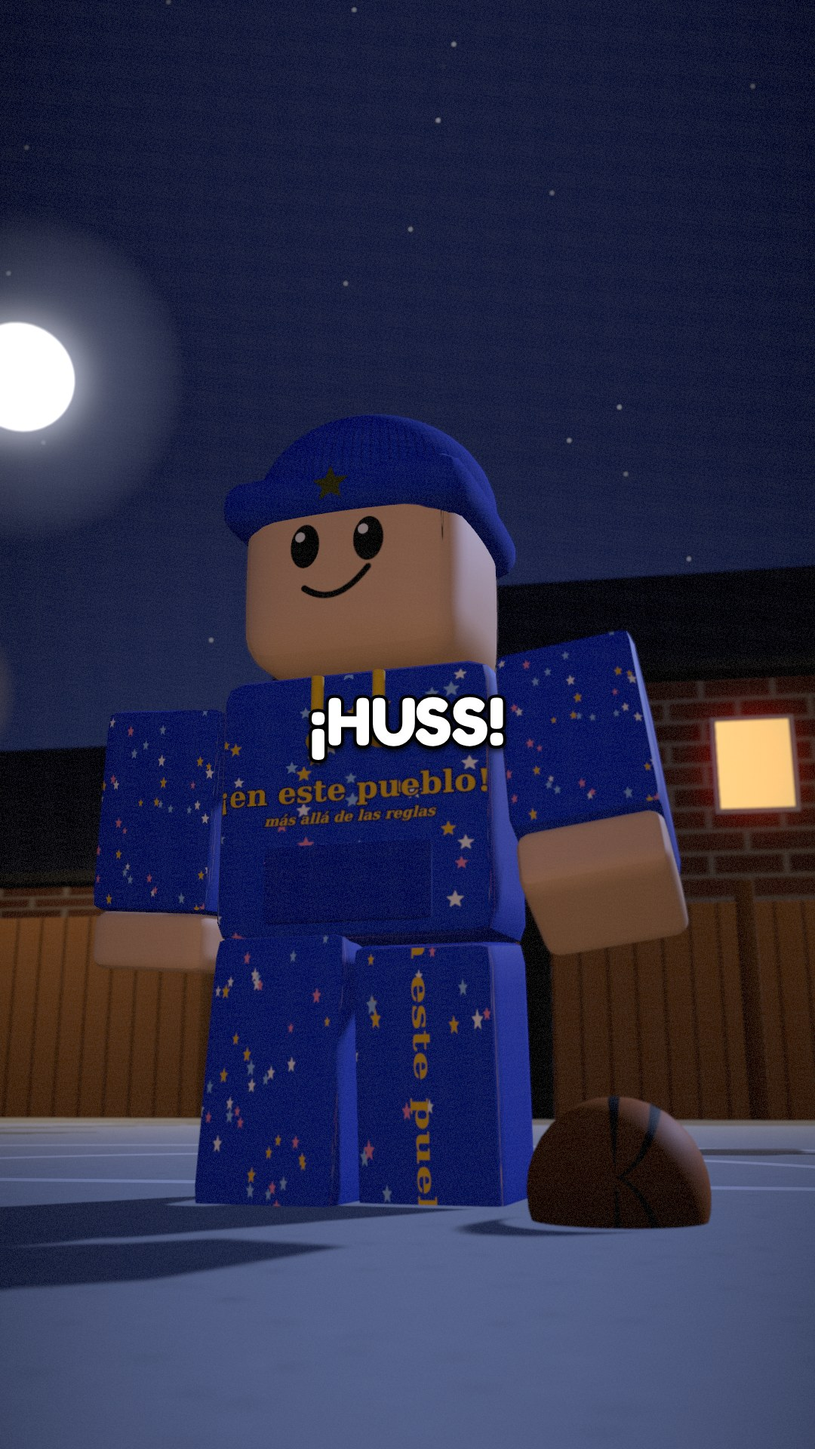
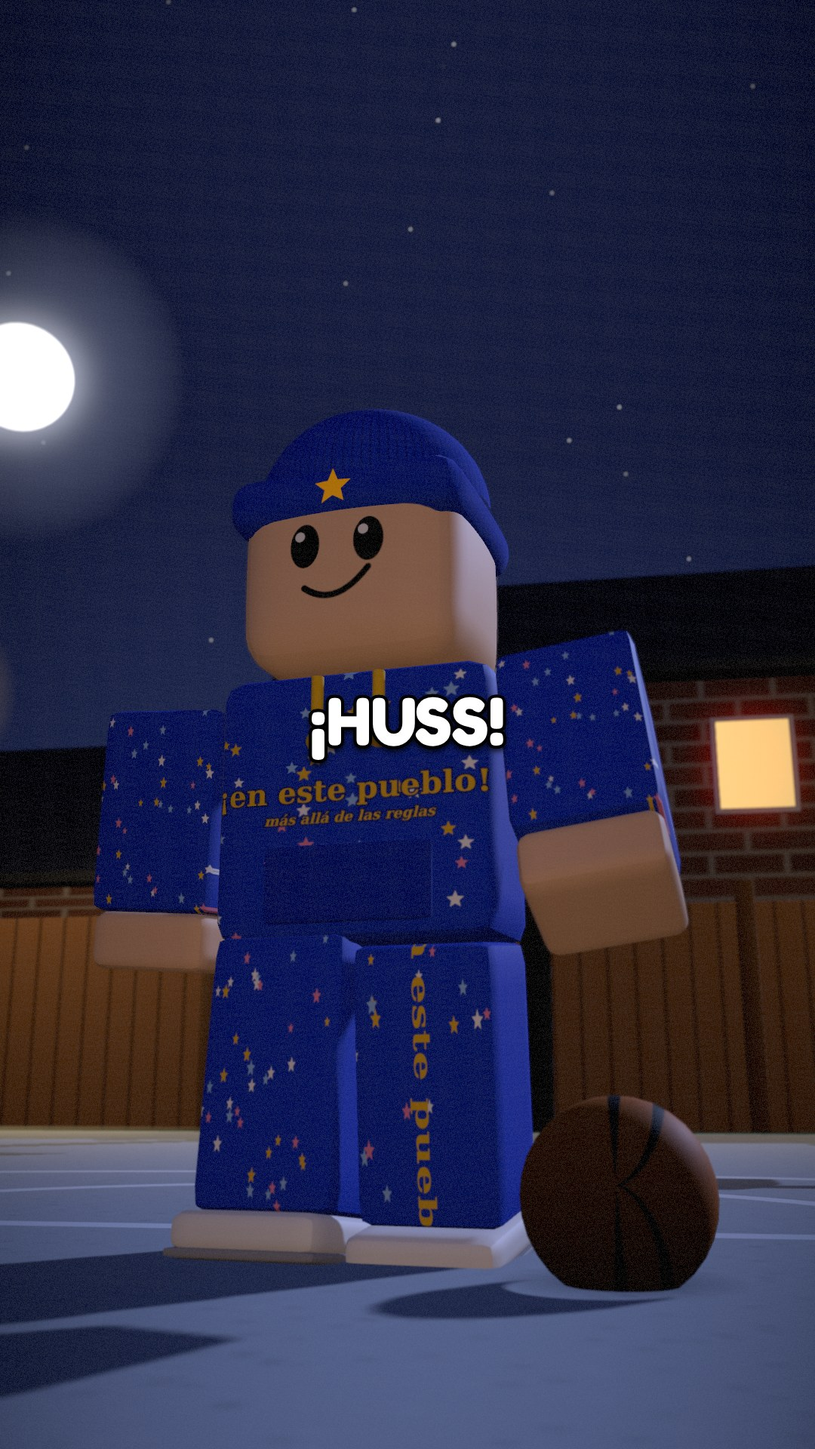
En este pueblo: pecera de vidrio real con agua, balón con rebote y sombra, gorro recto, marcador Bebas con brillo, pueblo detrás del partido, siluetas animadas, sin costuras en la cara
Claude-Session: https://claude.ai/code/session_01NcqyoPWYYrQVxTVUuo8w3d

diff --git a/videos/en-este-pueblo/assets/lib/escenarios.js b/videos/en-este-pueblo/assets/lib/escenarios.js
@@ -40,8 +40,8 @@
   function luna(dir, dist = 700, r = 26) { const g = G(); const d = new THREE.Vector3(...dir).normalize().multiplyScalar(dist); g.position.copy(d);
     const disco = new THREE.Mesh(new THREE.CircleGeometry(r, 48), new THREE.MeshBasicMaterial({ color: new THREE.Color(2.6, 2.6, 2.6), fog: false })); g.add(disco);
     const h = halo(r * 3.2, '#C9D6FF', .55); h.material.fog = false; g.add(h); g.lookAt(0, 0, 0); return g; }
-  function colinas(capas, z0 = -120, ancho = 520) { const g = G(); sembrar(5); capas.forEach((col, k) => { const m = mat(col, { roughness: 1 });
-      for (let i = 0; i < 9; i++) { const r = 60 + rnd() * 60; const o = new THREE.Mesh(new THREE.SphereGeometry(r, 18, 10), m); o.scale.set(1.5, .3 + k * .05 + rnd() * .12, 1); o.position.set(-ancho / 2 + i * ancho / 8 + rnd() * 30, -4, z0 - k * 90 - rnd() * 20); g.add(o); } }); return g; }
+  function colinas(capas, z0 = -120, ancho = 520, alto = 1) { const g = G(); sembrar(5); capas.forEach((col, k) => { const m = mat(col, { roughness: 1 });
+      for (let i = 0; i < 9; i++) { const r = 60 + rnd() * 60; const o = new THREE.Mesh(new THREE.SphereGeometry(r, 18, 10), m); o.scale.set(1.5, (.3 + k * .05 + rnd() * .12) * alto, 1); o.position.set(-ancho / 2 + i * ancho / 8 + rnd() * 30, -4, z0 - k * 90 - rnd() * 20); g.add(o); } }); return g; }
 
   // ---------- piezas del pueblo ----------
   const PAL = { techo: '#2A2D3A', techoRojo: '#B23A2E', ventana: '#FFD98A', marco: '#F4F2EE', farol: '#FFE3A8' };
@@ -65,7 +65,7 @@
     sembrar((o.semilla || 1) * 13);
     const nv = Math.max(2, Math.round(w / 2.6));
     for (let p = 0; p < (o.pisos || 1); p++) for (let i = 0; i < nv; i++) { const x = -w / 2 + (i + .5) * w / nv; if (p === 0 && i === Math.floor(nv / 2)) continue;
-      const conSil = o.silueta && rnd() < o.silueta; const v = ventana({ cruz: o.cruz && !conSil, persianas: o.persianas, apagada: !conSil && o.apagadas && rnd() < o.apagadas, silueta: conSil, tipoSil: TIPOS_SIL[(p * 3 + i + (o.semilla || 0)) % TIPOS_SIL.length], col: conSil ? '#FFF6E2' : null, silX: rnd() - .5, int: conSil ? 1.6 : 1.2 + rnd() * .6 }); v.position.set(x, .25 + p * ph + ph * .55, d / 2 + .02); g.add(v); }
+      const conSil = o.silueta && rnd() < o.silueta; const v = ventana({ cruz: o.cruz && !conSil, persianas: o.persianas, apagada: !conSil && o.apagadas && rnd() < o.apagadas, silueta: conSil, tipoSil: TIPOS_SIL[(p * 3 + i + (o.semilla || 0)) % TIPOS_SIL.length] + ':' + ((p + i * 2 + (o.semilla || 0)) % 3), col: conSil ? '#FFF6E2' : null, silX: rnd() - .5, int: conSil ? 1.6 : 1.2 + rnd() * .6 }); v.position.set(x, .25 + p * ph + ph * .55, d / 2 + .02); g.add(v); }
     // puerta, porche, escalones y caminito
     const xd = -w / 2 + (Math.floor(nv / 2) + .5) * w / nv;
     g.add(caja(1.05, 2.15, .14, mat(o.puerta || '#5A3A28', { roughness: .6 }), xd, 1.33, d / 2 + .04, .03)); g.add(caja(.08, .08, .1, luz('#FFE3A8', 2), xd + .35, 1.3, d / 2 + .13, .02));
@@ -141,12 +141,12 @@
   ];
   function casaEstilo(i, extra = {}) { const e = ESTILOS[i % ESTILOS.length]; return casa(Object.assign({ col: e.col, map: e.mapa ? TEX[e.mapa] : null, pisos: e.pisos, w: e.w, d: 6.5, techoCol: e.techoCol, columnas: e.columnas, persianas: e.persianas, cruz: e.cruz, semilla: i + 1, apagadas: .25 }, extra)); }
   function pueblo(o = {}) { const g = G(); const z0 = o.z0 != null ? o.z0 : 30, z1 = o.z1 != null ? o.z1 : -150, L = z0 - z1, zc = (z0 + z1) / 2;
-    g.add(plano(400, 400, mat('#FFFFFF', { color: o.pasto || '#3E6E34', map: rep(TEX.pasto.clone(), 60, 60), roughness: 1 }), 0, -.01, -100)); g.children[0].material.map.needsUpdate = true;
-    g.add(plano(7, L, mat('#FFFFFF', { map: rep(TEX.asfalto.clone(), 2, L / 4), roughness: .9 }), 0, 0, zc)); g.children[1].material.map.needsUpdate = true;
+    if (!o.sinPasto) { g.add(plano(400, 400, mat('#FFFFFF', { color: o.pasto || '#3E6E34', map: rep(TEX.pasto.clone(), 60, 60), roughness: 1 }), 0, -.01, -100)); g.children[0].material.map.needsUpdate = true; }
+    g.add(plano(7, L, mat('#FFFFFF', { map: rep(TEX.asfalto.clone(), 2, L / 4), roughness: .9 }), 0, 0, zc)); g.children[g.children.length - 1].material.map.needsUpdate = true;
     for (let z = z0 - 2; z > z1; z -= 6) g.add(caja(.16, .02, 3.0, mat('#E3B53A', { roughness: .6 }), 0, .015, z - 1.5, .005));
     for (const s of [-1, 1]) { g.add(caja(2.4, .18, L, mat('#FFFFFF', { map: rep(TEX.banqueta.clone(), 1, L / 3), roughness: .9 }), s * 4.7, .09, zc, .03)); g.add(caja(.2, .22, L, mat('#B8BBC0'), s * 3.55, .11, zc, .03)); }
     let k = o.semilla || 0; const sep = 9.2;
-    for (const s of [-1, 1]) for (let z = z0 - 6, i = 0; z > z1 + 5; z -= sep, i++) { if (o.hueco && o.hueco(s, z)) continue; const c = casaEstilo(k++ * 3 + (s > 0 ? 1 : 0) + i, { silueta: o.siluetas || 0 }); c.position.set(s * 13.5, 0, z); c.rotation.y = s > 0 ? -Math.PI / 2 : Math.PI / 2; g.add(c);
+    for (const s of [-1, 1]) for (let z = z0 - 6, i = 0; z > z1 + 5; z -= sep, i++) { if (o.hueco && o.hueco(s, z)) continue; const c = casaEstilo(k++ * 3 + (s > 0 ? 1 : 0) + i, { silueta: o.siluetas || 0, apagadas: o.apagadas != null ? o.apagadas : .25 }); c.position.set(s * 13.5, 0, z); c.rotation.y = s > 0 ? -Math.PI / 2 : Math.PI / 2; g.add(c);
       if (i % 2 === 0) { const a = arbol(.9 + (i % 3) * .1, i % 2 ? '#4C8A3C' : '#3F7E36'); a.position.set(s * 8.2, 0, z - 5); g.add(a); } else { const b = arbusto(1); b.position.set(s * 8.4, 0, z - 4.5); g.add(b); }
       if (i % 3 === 1) { const b = buzon(); b.position.set(s * 6.3, 0, z + 2.2); g.add(b); }
       const bd = barda(6, 1.6, '#8A5A36'); bd.position.set(s * 13.5, 0, z - 5.1); bd.rotation.y = Math.PI / 2; g.add(bd); }
@@ -162,7 +162,7 @@
       const cx = w / 2, by = 1.2 * sy; c.strokeRect(cx - 2.45 * sx, 6, 4.9 * sx, 5.8 * sy); c.beginPath(); c.arc(cx, 5.8 * sy, 1.8 * sx, 0, Math.PI); c.stroke();
       c.beginPath(); c.moveTo(cx - 6.6 * sx, 6); c.lineTo(cx - 6.6 * sx, by + .2 * sy); c.arc(cx, by + .38 * sy, 6.75 * sx, Math.PI - .02, .02, true); c.lineTo(cx + 6.6 * sx, 6); c.stroke();
       for (const s of [-1, 1]) for (const yy of [1.9, 2.8, 3.7, 4.6]) { c.fillStyle = '#FFFFFF'; c.fillRect(cx + s * 2.45 * sx + (s < 0 ? -.5 * sx : 0), yy * sy, .5 * sx, 9); c.fillRect(cx + s * 2.45 * sx + (s < 0 ? -.5 * sx : 0), yy * sy + .3 * sy, .5 * sx, 9); } });
-    const piso = caja(W, .12, D, mat('#FFFFFF', { map: t, roughness: .85 }), 0, .06, 0, .02); piso.geometry = piso.geometry.clone(); // UV superior
+    const piso = caja(W, .12, D, mat('#FFFFFF', { map: t, roughness: .85 }), 0, -.05, 0, .02); piso.geometry = piso.geometry.clone(); // UV superior
     { const p = piso.geometry.attributes.position, uv = piso.geometry.attributes.uv; for (let i = 0; i < p.count; i++) uv.setXY(i, (p.getX(i) + W / 2) / W, (p.getZ(i) + D / 2) / D); uv.needsUpdate = true; } g.add(piso);
     const aro = canasta('#15161A'); aro.position.set(0, 0, -D / 2 + .4); g.add(aro); g.userData.aro = aro;
     for (const [x, z, r, L] of [[-W / 2 - .6, 0, Math.PI / 2, D + 1.2], [W / 2 + .6, 0, Math.PI / 2, D + 1.2], [0, -D / 2 - .6, 0, W + 1.2], [-4.6, D / 2 + .6, 0, 6], [4.6, D / 2 + .6, 0, 6]]) { const b = barda(L, 2.0); b.position.set(x, 0, z); b.rotation.y = r; g.add(b); }
@@ -188,16 +188,30 @@
   function personaje(k, x, z, ry = 0, expr, pose, t = .3, opc) { const a = P.crear(k, opc); a.position.set(x, 0, z); a.rotation.y = ry; if (expr && a.cara) a.cara(expr); if (pose && a.pose) a.pose(t, pose); return prepara(a); }
   // balón en la mano derecha del protagonista (pose 'botar'): sube y baja al ritmo del brazo
   const _v = new THREE.Vector3();
-  function botaBalon(a, b, t) { a.updateMatrixWorld(true); const br = a.userData.brazos[1]; br.localToWorld(_v.set(0, -1.62, .1)); const f = (t * 2.2) % 1, e = Math.pow(2 * f - 1, 2); b.position.set(_v.x, .17 + Math.max(0, _v.y - .17 - .17) * e, _v.z); b.rotation.x = t * 6; }
-  const SIL = {}; // siluetas negras practicando algo (para ventanas)
-  function silueta(tipo) { if (SIL[tipo]) return SIL[tipo]; SIL[tipo] = tex(128, 160, (x, w, h) => { x.fillStyle = '#08080C'; const R = (a, b, c, d, r = 0) => { x.save(); x.translate(a, b); x.rotate(r); x.fillRect(-c / 2, 0, c, d); x.restore(); };
+  const TSOM = tex(64, 64, (x) => { const g = x.createRadialGradient(32, 32, 0, 32, 32, 32); g.addColorStop(0, 'rgba(0,0,0,.75)'); g.addColorStop(1, 'rgba(0,0,0,0)'); x.fillStyle = g; x.fillRect(0, 0, 64, 64); });
+  function botaBalon(a, b, t, piso = .01) { a.updateMatrixWorld(true); const br = a.userData.brazos[1]; br.localToWorld(_v.set(0, -1.62, .1)); const r = .17, f = (t * 2.2) % 1, e = Math.pow(2 * f - 1, 2), alto = Math.max(0, _v.y - r - r - piso);
+    const y = piso + r + alto * e; b.position.set(_v.x, y, _v.z); b.rotation.x = t * 6; const ap = Math.max(0, 1 - (y - piso - r) / .12); b.scale.set(1 + .08 * ap, 1 - .12 * ap, 1 + .08 * ap); b.position.y -= r * .12 * ap;
+    if (!b.userData.sombra) { const m = new THREE.Mesh(new THREE.PlaneGeometry(1, 1), new THREE.MeshBasicMaterial({ map: TSOM, transparent: true, depthWrite: false })); m.rotation.x = -Math.PI / 2; b.userData.sombra = m; b.parent.add(m); }
+    const k = 1 - Math.min(1, (y - piso - r) / Math.max(.2, alto)), so = b.userData.sombra; so.position.set(_v.x, piso + .004, _v.z); so.scale.setScalar(.22 + .26 * k); so.material.opacity = .25 + .6 * k; }
+  const SIL = {}; // siluetas negras practicando algo, animadas en bucle (para ventanas)
+  function silueta(clave) { if (SIL[clave]) return SIL[clave].t; const [tipo, fase] = clave.split(':'); const c = document.createElement('canvas'); c.width = 128; c.height = 160; const x = c.getContext('2d'); const t = new THREE.CanvasTexture(c); t.encoding = THREE.sRGBEncoding;
+    const R = (a, b, w, d, r = 0) => { x.save(); x.translate(a, b); x.rotate(r); x.fillRect(-w / 2, 0, w, d); x.restore(); };
+    const dibuja = (tt) => { tt += (+fase || 0) * .37; x.clearRect(0, 0, 128, 160); x.fillStyle = '#08080C'; const s1 = Math.sin(tt * 7);
+      if (tipo === 'sentadillas') { const b = (s1 * .5 + .5) * 26; x.fillRect(46, 20 + b, 36, 34); x.fillRect(40, 56 + b, 48, 46 - b * .3); R(51, 100 + b * .7, 18, 60 - b * .7, b * .02); R(77, 100 + b * .7, 18, 60 - b * .7, -b * .02); R(40, 60 + b, 12, 40, -1.4); R(88, 60 + b, 12, 40, 1.4); }
+      else { x.fillRect(46, 20, 36, 34); x.fillRect(40, 56, 48, 52); x.fillRect(42, 108, 18, 52); x.fillRect(68, 108, 18, 52);
+        if (tipo === 'botar') { const u = Math.abs(Math.sin(tt * 4.4)); R(40, 60, 12, 44, .15); R(88, 60, 12, 40, -.35 - .2 * u); x.beginPath(); x.arc(104, 108 + 44 * (1 - u), 9, 0, 7); x.fill(); }
+        else if (tipo === 'guitarra') { R(40, 60, 12, 40, .9 + .25 * Math.sin(tt * 14)); R(88, 60, 12, 40, -1.2); x.beginPath(); x.ellipse(58, 92, 20, 14, -.5, 0, 7); x.fill(); R(70, 80, 6, 50, -1.0); }
+        else { const a = s1 > 0; R(88, 62, 12, a ? 46 : 26, a ? -1.57 : -2.4); R(40, 62, 12, a ? 26 : 46, a ? 2.4 : 1.57); } } t.needsUpdate = true; };
+    dibuja(0); SIL[clave] = { t, dibuja }; return t; }
+  function animaSiluetas(tt) { for (const k in SIL) SIL[k].dibuja(tt); }
+  function siluetaVieja(tipo) { if (SIL[tipo]) return SIL[tipo]; SIL[tipo] = tex(128, 160, (x, w, h) => { x.fillStyle = '#08080C'; const R = (a, b, c, d, r = 0) => { x.save(); x.translate(a, b); x.rotate(r); x.fillRect(-c / 2, 0, c, d); x.restore(); };
       if (tipo === 'lagartija') { x.fillRect(18, 108, 92, 18); x.fillRect(96, 94, 22, 22); R(98, 120, 9, 30, 0); R(30, 120, 9, 30, 0); return; }
       x.fillRect(46, 20, 36, 34); x.fillRect(40, 56, 48, 52); x.fillRect(42, 108, 18, 52); x.fillRect(68, 108, 18, 52);
       if (tipo === 'guitarra') { R(40, 60, 12, 40, .9); R(88, 60, 12, 40, -1.2); x.beginPath(); x.ellipse(58, 92, 20, 14, -.5, 0, 7); x.fill(); R(70, 80, 6, 50, -1.0); }
       else if (tipo === 'karate') { R(88, 60, 12, 46, -1.57); R(40, 60, 12, 40, .4); }
       else if (tipo === 'pesas') { R(40, 58, 12, 46, Math.PI - .3); R(88, 58, 12, 46, Math.PI + .3); x.fillRect(10, 4, 108, 8); x.fillRect(6, 0, 10, 16); x.fillRect(112, 0, 10, 16); }
       else { R(40, 60, 12, 44, .3); R(88, 60, 12, 44, -.3); } }); return SIL[tipo]; }
-  const TIPOS_SIL = ['guitarra', 'karate', 'pesas', 'lagartija', 'guitarra', 'pesas'];
+  const TIPOS_SIL = ['botar', 'guitarra', 'golpes', 'sentadillas'];
   const camara = (pos, mira, fov = 50) => { const c = new THREE.PerspectiveCamera(fov, 1080 / 1920, .05, 1500); c.position.set(...pos); c.lookAt(...mira); return c; };
   function banca() { const g = G(), m = mat('#FFFFFF', { map: TEX.madera, roughness: .7 }), n = mat('#1A1A1E', { roughness: .4 }); for (let i = 0; i < 3; i++) g.add(caja(1.9, .06, .14, m, 0, .46, -.17 + i * .17, .02)); for (let i = 0; i < 2; i++) g.add(caja(1.9, .12, .05, m, 0, .66 + i * .18, -.3, .02));
     for (const sx of [-1, 1]) { g.add(caja(.07, .46, .45, n, sx * .8, .23, 0, .02)); g.add(caja(.07, .55, .07, n, sx * .8, .7, -.32, .02)); } return g; }
@@ -289,24 +303,24 @@
       s.add(new THREE.HemisphereLight('#C8C8F0', '#8A6A50', .75)); const sol = new THREE.DirectionalLight('#FFD8B0', 3.0); sol.position.set(44, 10, 4); sol.castShadow = true; sol.shadow.mapSize.set(4096, 4096); sol.shadow.bias = -.0004; sol.shadow.normalBias = .03; sol.shadow.radius = 5; { const c = sol.shadow.camera; c.left = c.bottom = -26; c.right = c.top = 26; c.far = 160; } s.add(sol);
       const rel = new THREE.DirectionalLight('#B8BDEB', .5); rel.position.set(-20, 10, -10); s.add(rel);
       s.add(plano(500, 500, mat('#6FA24E', { map: rep(TEX.pasto.clone(), 70, 70), roughness: 1 }), 0, -.01, -60));
-      const W = 15, D = 28; const t = tex(512, 960, (c, w, h) => { c.fillStyle = '#4F7FE0'; c.fillRect(0, 0, w, h); const sx = w / W, sy = h / D; c.fillStyle = '#F08A3C'; c.fillRect(w / 2 - 2.45 * sx, 0, 4.9 * sx, 5.8 * sy); c.fillRect(w / 2 - 2.45 * sx, h - 5.8 * sy, 4.9 * sx, 5.8 * sy);
+      const W = 15, D = 28; const t = tex(512, 960, (c, w, h) => { c.fillStyle = '#4F7FE0'; c.fillRect(0, 0, w, h); const sx = w / W, sy = h / D; c.fillStyle = '#EE7420'; c.fillRect(w / 2 - 2.45 * sx, 0, 4.9 * sx, 5.8 * sy); c.fillRect(w / 2 - 2.45 * sx, h - 5.8 * sy, 4.9 * sx, 5.8 * sy);
         c.fillStyle = '#F6D44A'; c.beginPath(); c.arc(w / 2, h / 2, 1.8 * sx, 0, 7); c.fill(); c.strokeStyle = '#FFFFFF'; c.lineWidth = 6; c.strokeRect(4, 4, w - 8, h - 8); c.beginPath(); c.moveTo(0, h / 2); c.lineTo(w, h / 2); c.stroke(); c.beginPath(); c.arc(w / 2, h / 2, 1.8 * sx, 0, 7); c.stroke();
         for (const e of [0, 1]) { const y0 = e ? h : 0, sg = e ? -1 : 1; c.strokeRect(w / 2 - 2.45 * sx, e ? h - 5.8 * sy : 0, 4.9 * sx, 5.8 * sy); c.beginPath(); c.arc(w / 2, y0 + sg * 5.8 * sy, 1.8 * sx, 0, 7); c.stroke(); c.beginPath(); c.arc(w / 2, y0 + sg * 1.6 * sy, 6.75 * sx, e ? Math.PI + .2 : .2, e ? -.2 : Math.PI - .2, false); c.stroke(); } });
-      const piso = caja(W, .12, D, mat('#FFFFFF', { map: t, roughness: .55 }), 0, .06, 0, .02); piso.geometry = piso.geometry.clone(); { const p = piso.geometry.attributes.position, uv = piso.geometry.attributes.uv; for (let i = 0; i < p.count; i++) uv.setXY(i, (p.getX(i) + W / 2) / W, (p.getZ(i) + D / 2) / D); } s.add(piso);
+      const piso = caja(W, .12, D, mat('#FFFFFF', { map: t, roughness: .9 }), 0, -.05, 0, .02); piso.geometry = piso.geometry.clone(); { const p = piso.geometry.attributes.position, uv = piso.geometry.attributes.uv; for (let i = 0; i < p.count; i++) uv.setXY(i, (p.getX(i) + W / 2) / W, (p.getZ(i) + D / 2) / D); } s.add(piso);
       for (const z of [-D / 2 + .3, D / 2 - .3]) { const a = canasta('#D9312B'); a.position.set(0, 0, z); if (z > 0) a.rotation.y = Math.PI; s.add(a); }
       // gradas de 6 escalones llenas de invitados con gorritos
       for (let i = 0; i < 6; i++) s.add(caja(.75, (i + 1) * .45, 22, mat(i % 2 ? '#6E6965' : '#8F8A86', { roughness: .95 }), -W / 2 - 1.6 - i * .75, (i + 1) * .225, 0, .02));
       const gradas = []; const KS = ['invitado_verde', 'invitado_blanco', 'invitada_amarilla', 'nino_gorro', 'rubio', 'linda', 'abuela'];
-      for (let fila = 0; fila < 6; fila++) for (let j = 0; j < 9; j++) { const k = KS[(fila * 4 + j * 3) % KS.length]; const pose = (fila + j) % 3 === 0 ? 'quieto' : 'bailar';
-        const a = personaje(k, -W / 2 - 1.6 - fila * .75, -9.6 + j * 2.4 + (fila % 2) * 1.2, Math.PI / 2, 'feliz', pose, fila * .4 + j * .7); a.position.y = .45 * (fila + 1); s.add(a); gradas.push(a); }
+      for (let fila = 0; fila < 6; fila++) for (let j = 0; j < 10; j++) { const k = KS[(fila * 4 + j * 3) % KS.length]; const pie = (fila * 3 + j * 7) % 5 === 0; const pose = pie ? 'bailar' : 'sentado';
+        const a = personaje(k, -W / 2 - 1.6 - fila * .75 - (pie ? 0 : .12), -9.9 + j * 2.2, Math.PI / 2, 'feliz', pose, fila * .4 + j * .7); a.position.y = .45 * (fila + 1) + (pie ? 0 : .08); a.userData.pie = pie; s.add(a); gradas.push(a); }
       // letrero
       const lt = tex(1600, 260, (c, w, h) => { c.fillStyle = '#E7B53C'; c.fillRect(0, 0, w, h); c.fillStyle = '#5B4A9E'; c.font = 'bold 118px "DejaVu Sans", sans-serif'; c.textAlign = 'center'; c.textBaseline = 'middle'; const tw = c.measureText('PARTIDO DE FIESTA DE VERANO').width; c.save(); c.translate(w / 2, h * .42); c.scale(Math.min(1, (w - 80) / tw), 1); c.fillText('PARTIDO DE FIESTA DE VERANO', 0, 0); c.restore(); for (let i = 0; i < 26; i++) { c.fillStyle = COLB[i % 6]; c.fillRect(40 + i * 60, h - 52, 40, 30); } });
       const letrero = G(); letrero.add(caja(14, 2.3, .2, mat('#FFFFFF', { map: lt, roughness: .6 }), 0, 6.4, 0, .05)); for (const x of [-6, 6]) letrero.add(caja(.3, 6.4, .3, mat('#15161A'), x, 3.2, -.2, .04)); letrero.position.set(-2.5, 0, -D / 2 - 4); s.add(letrero);
       // marcador negro sobre dos postes
-      const mt = tex(800, 420, (c, w, h) => { c.fillStyle = '#121214'; c.fillRect(0, 0, w, h); c.textAlign = 'center'; c.fillStyle = '#F0A040'; c.font = 'bold 70px "DejaVu Sans", sans-serif'; c.fillText('VISITA', w * .27, 100); c.fillText('LOCAL', w * .73, 100); c.fillStyle = '#F6E06A'; c.font = 'bold 230px "DejaVu Sans Mono", monospace'; c.fillText(String(MK[0]), w * .27, 350); c.fillText(String(MK[1]), w * .73, 350); });
-      const marc = G(); marc.add(caja(4.4, 2.3, .3, mat('#FFFFFF', { map: mt, roughness: .5, emissive: '#FFFFFF', emissiveMap: mt, emissiveIntensity: .3 }), 0, 4.3, 0, .05)); for (const x of [-1.5, 1.5]) marc.add(caja(.22, 3.4, .22, mat('#15161A'), x, 1.7, -.2, .03)); marc.position.set(7.2, 0, -D / 2 - 3); marc.rotation.y = -.2; s.add(marc);
+      const mt = tex(800, 420, (c, w, h) => { c.fillStyle = '#0E0E10'; c.fillRect(0, 0, w, h); c.textAlign = 'center'; c.fillStyle = '#F0A040'; c.font = '92px "Bebas Neue", sans-serif'; c.fillText('VISITA', w * .27, 110); c.fillText('LOCAL', w * .73, 110); c.fillStyle = '#F6E06A'; c.font = '300px "Bebas Neue", sans-serif'; c.shadowColor = 'rgba(246,224,106,.85)'; c.shadowBlur = 26; for (let k = 0; k < 2; k++) { c.fillText(String(MK[0]), w * .27, 380); c.fillText(String(MK[1]), w * .73, 380); } });
+      const marc = G(); marc.add(caja(4.4, 2.3, .3, mat('#FFFFFF', { map: mt, roughness: .5, emissive: '#FFFFFF', emissiveMap: mt, emissiveIntensity: 1.15 }), 0, 4.3, 0, .05)); for (const x of [-1.5, 1.5]) marc.add(caja(.22, 3.4, .22, mat('#15161A'), x, 1.7, -.2, .03)); marc.position.set(7.2, 0, -D / 2 - 3); marc.rotation.y = -.2; s.add(marc);
       // solo 2 tiras de banderines, altas
-      for (const z of [2, 11]) { s.add(banderines([-W / 2 - 1.5, 8.4, z], [W / 2 + 1.5, 8.4, z - .5], .7, 26, false, 1.1)); for (const x of [-W / 2 - 1.5, W / 2 + 1.5]) s.add(caja(.14, 8.5, .14, mat('#9EA2AA'), x, 4.25, z - (x > 0 ? .5 : 0), .02)); }
+      for (const z of [-3, -10]) { s.add(banderines([-W / 2 - 1.5, 8.4, z], [W / 2 + 1.5, 8.4, z - .5], .7, 26, false, 1.1)); for (const x of [-W / 2 - 1.5, W / 2 + 1.5]) s.add(caja(.14, 8.5, .14, mat('#9EA2AA'), x, 4.25, z - (x > 0 ? .5 : 0), .02)); }
       // barda blanca, casetita de madera con techo rojo y mesa de botanas roja
       for (const [x, z, r, L] of [[W / 2 + 7, 0, Math.PI / 2, 40], [0, -D / 2 - 8, 0, 34]]) { const b = barda(L, 1.4, '#FFFFFF', true); b.position.set(x, 0, z); b.rotation.y = r; s.add(b); }
       const cas = G(); cas.add(caja(3, 2.6, 3, mat('#FFFFFF', { map: TEX.tablonCafe, roughness: .8 }), 0, 1.3, 0, .05)); const tc = techo(3.6, 3.8, 1.3, '#C8352B'); tc.position.y = 2.6; cas.add(tc); cas.add(caja(1.6, .9, .1, mat('#2A1A10'), 0, 1.6, 1.52, .02)); cas.add(caja(1.8, .1, .5, mat('#FFFFFF', { map: TEX.madera }), 0, 1.12, 1.7, .02)); cas.position.set(W / 2 + 2.6, 0, -6); cas.rotation.y = -Math.PI / 2 + .3; s.add(cas);
@@ -315,11 +329,12 @@
       const prota = personaje('prota', 1.2, 4, Math.PI * .85, 'feliz', 'botar', .2); s.add(prota); const bal = P.balon(.17); s.add(bal); botaBalon(prota, bal, .2);
       const kevin = personaje('kevin', -1.6, 1.0, .3, 'seria', 'quieto'); s.add(kevin); const rub = personaje('rubio', 3.4, -1.6, -.3, 'sorpresa', 'quieto'); s.add(rub);
       // pueblo y colinas al fondo (3 capas, más claras mientras más lejos)
-      [[-24, -34, 1], [-12, -40, 4], [2, -44, 6], [16, -40, 9], [28, -34, 2], [-34, -24, 7], [36, -22, 3]].forEach(([x, z, i]) => { const h = casaEstilo(i, { apagadas: 1 }); h.position.set(x, 0, z); h.rotation.y = Math.atan2(-x, -z) + Math.PI; s.add(h); });
-      for (const [x, z] of [[-18, -30], [8, -34], [22, -28], [-30, -12]]) { const a = arbol(1.1, '#5E9A3E'); a.position.set(x, 0, z); s.add(a); }
-      s.add(colinas(['#78A456', '#9DB487', '#C6C3B4'], -110));
+      for (const [zz, sem] of [[-40, 3], [-74, 9]]) { const pb = pueblo({ z0: 75, z1: -75, sinPasto: true, hidrante: false, semilla: sem, apagadas: .85, zBandera: 20 }); pb.rotation.y = Math.PI / 2; pb.position.z = zz; s.add(pb); }
+      for (const [col, tipo, x, z, ry] of [['#3F9A4E', 'camioneta', -10, -42.2, Math.PI / 2], ['#D9423A', 'coche', 6, -37.8, -Math.PI / 2], ['#E8E8EA', 'camioneta', 22, -42.2, Math.PI / 2], ['#D9423A', 'coche', -26, -71.8, -Math.PI / 2]]) { const c = coche(col, tipo, false); c.position.set(x, 0, z); c.rotation.y = ry; s.add(c); }
+      for (const [x, z] of [[-30, -12], [24, -14]]) { const a = arbol(1.1, '#5E9A3E'); a.position.set(x, 0, z); s.add(a); }
+      s.add(colinas(['#78A456', '#9DB487', '#C6C3B4'], -120, 620, .45));
       const cam = camara([3, 10.5, 28], [0, 2.2, -8], 60);
-      return { scene: s, cam, post: { focus: 22, ap: .04, bloom: .45, umbral: 1.5 }, actores: { prota, kevin, rubio: rub, balon: bal, marcador: marc, gradas }, anima: (tt) => { relleno(.07); gradas.forEach((a, i) => a.pose(tt + i * .21, (i % 3) ? 'bailar' : 'quieto')); prota.pose(tt, 'botar'); botaBalon(prota, bal, tt); } }; },
+      return { scene: s, cam, post: { focus: 22, ap: .04, bloom: .45, umbral: 1.5 }, actores: { prota, kevin, rubio: rub, balon: bal, marcador: marc, gradas }, anima: (tt) => { relleno(.07); gradas.forEach((a, i) => a.pose(tt + i * .21, a.userData.pie ? 'bailar' : 'sentado')); prota.pose(tt, 'botar'); botaBalon(prota, bal, tt); } }; },
 
     // F · Interiores de noche
     cuarto_kevin() { return interior({ pared: '#1F2C66', piso: mat('#FFFFFF', { map: TEX.pisoMadera, roughness: .7 }), tapete: '#D6A72E', poster: true,
@@ -339,7 +354,7 @@
       s.add(foquitos([-7.6, 3.6, -6.8], [7.6, 3.6, 2], 1.1, 24)); s.add(foquitos([-7.6, 3.4, 3], [7.6, 3.6, -6.5], 1.0, 24)); for (const [x, z] of [[-7.6, -6.8], [7.6, 2], [-7.6, 3], [7.6, -6.5]]) s.add(caja(.12, 3.7, .12, mat('#2A2A2A'), x, 1.85, z, .02));
       const warm = new THREE.PointLight('#FFF0D0', 1.1, 18, 1.5); warm.position.set(0, 3.3, -1); s.add(warm);
       const pc = P.pecera(); pc.position.set(.55, 0, -1.4); s.add(pc); pc.userData.pez.traverse(q => { if (q.isMesh && q.material.emissive && q.material.color.getHex() !== 0x101010) q.material.emissiveIntensity = .45; });
-      const col = new THREE.SpotLight('#FF8FD0', 3.0, 7, .42, .7, 1.2); col.position.set(.55, 3.2, -.2); col.target.position.set(.55, .8, -1.4); s.add(col, col.target);
+      const col = new THREE.SpotLight('#FF8FD0', 1.5, 7, .42, .7, 1.2); col.position.set(.55, 3.2, -.2); col.target.position.set(.55, .8, -1.4); s.add(col, col.target);
       const prota = personaje('prota', -.75, -.6, .25, 'feliz', 'bailar', .35); const gf = P.gorroFiesta('#F2C230'); gf.scale.setScalar(.72); gf.position.y = .74; gf.rotation.z = -.08; prota.userData.cabeza.add(gf); s.add(prota); prepara(prota);
       const CL = ['#FF8FD0', '#8FF0C0', '#FFE680', '#C8A0FF'].map(c => new THREE.Color(c)); const tmp = new THREE.Color();
       const cam = camara([.2, 1.55, 4.6], [-.1, 1.2, -1.2], 50);
@@ -366,5 +381,5 @@
     const cam = o.cam ? camara(...o.cam) : camara([.9, 1.55, 4.7], [0, 1.0, -1.2], 54);
     const foco = cam.position.distanceTo(new THREE.Vector3(o.cam ? o.cam[1][0] : 0, o.cam ? o.cam[1][1] : 1, o.cam ? o.cam[1][2] : -1.2)); return { scene: s, cam, post: { focus: foco, ap: .12, bloom: .8 }, actores: act, anima: (t) => { relleno(.26); if (o.anima) o.anima(act, t); } }; }
 
-  window.PUEBLO_E = { crear: (k, o) => { texturas(); return CREA[k](o); }, CREA, personaje, prepara, botaBalon, relleno, camara, casa, casaEstilo, pueblo, coche, farol, arbol, banderines, foquitos, globo, canasta, mediaCancha, cielo, luna, estrellas, colinas, charco, halo, caja, mat, luz, TEX, texturas };
+  window.PUEBLO_E = { crear: (k, o) => { texturas(); const r = CREA[k](o); const an = r.anima; r.anima = (t) => { an(t); animaSiluetas(t); }; return r; }, animaSiluetas, CREA, personaje, prepara, botaBalon, relleno, camara, casa, casaEstilo, pueblo, coche, farol, arbol, banderines, foquitos, globo, canasta, mediaCancha, cielo, luna, estrellas, colinas, charco, halo, caja, mat, luz, TEX, texturas };
 })();

diff --git a/videos/en-este-pueblo/assets/lib/personajes.js b/videos/en-este-pueblo/assets/lib/personajes.js
@@ -20,7 +20,7 @@
       if (inflado) { const ex = 1 - Math.pow(Math.abs(v.y) / (h / 2), 2), ey = 1 - Math.pow(Math.abs(v.x) / (w / 2), 2), ez = 1 - Math.pow(Math.abs(v.z) / (d / 2), 2); v.x += Math.sign(v.x) * inflado * Math.max(0, ex * ez); v.z += Math.sign(v.z) * inflado * Math.max(0, ex * ey); }
       p.setXYZ(i, v.x, v.y, v.z);
       // UV frontal plana; las caras de atrás van a una esquina "lisa" de la textura (0.02, 0.02)
-      if (frente) uv.setXY(i, (v.x + w / 2) / w, (v.y + h / 2) / h); else uv.setXY(i, .01, .01);
+      { const cu = q => Math.min(.995, Math.max(.005, q)), pu = cu((v.x + w / 2) / w), pv = cu((v.y + h / 2) / h); if (frente || v.z > 0) uv.setXY(i, pu, pv); else uv.setXY(i, pu > .5 ? .995 : .005, pv); } // sin costuras: los lados toman la orilla del frente
     }
     g.computeVertexNormals(); return g;
   }
@@ -84,10 +84,10 @@
     g.add(M(new THREE.ConeGeometry(.34, .82, 24, 1, true), sm('#FFFFFF', { map: t, side: THREE.DoubleSide }), 0, .41, 0)); g.add(bola(.12, sm('#FFFFFF', { roughness: .9 }), 0, .84, 0)); return g; }
   function gorroTejido() { const g = new THREE.Group(); const tej = tex(256, 128, (x, w, h) => { x.fillStyle = C.azul; x.fillRect(0, 0, w, h); x.strokeStyle = 'rgba(0,0,40,.18)'; x.lineWidth = 3; for (let i = 0; i < w; i += 12) { x.beginPath(); x.moveTo(i, 0); x.lineTo(i, h); x.stroke(); } });
     tej.wrapS = tej.wrapT = THREE.RepeatWrapping; tej.repeat.set(4, 2); const m = sm('#FFFFFF', { map: tej, roughness: .95 });
-    const cup = M(new THREE.SphereGeometry(.6, 40, 24, 0, Math.PI * 2, 0, Math.PI / 2), m, 0, .36, -.01); cup.scale.set(.98, .82, .96); g.add(cup);
-    const band = M(rbox(1.16, .26, 1.1, .12, .02), m, 0, .3, 0); g.add(band);   // doblez grueso
-    const st = new THREE.Mesh(new THREE.PlaneGeometry(.2, .2), new THREE.MeshStandardMaterial({ map: tex(128, 128, (x, w) => estrellita(x, w / 2, w / 2 + 6, 58, C.amarillo)), transparent: true, roughness: .6, polygonOffset: true, polygonOffsetFactor: -3 }));
-    st.position.set(0, .3, .59); g.add(st); return g; }
+    const cup = M(new THREE.SphereGeometry(.56, 40, 24, 0, Math.PI * 2, 0, Math.PI / 2), m, 0, .38, 0); cup.scale.set(1.0, .9, .98); g.add(cup);
+    const band = M(rbox(1.1, .28, 1.05, .12, .015), m, 0, .3, 0); g.add(band);   // doblez grueso, recto y pegado a la cabeza
+    const tEst = tex(128, 128, (x, w) => estrellita(x, w / 2, w / 2 + 6, 58, C.amarillo)); const st = new THREE.Mesh(new THREE.PlaneGeometry(.2, .2), new THREE.MeshStandardMaterial({ map: tEst, emissive: C.amarillo, emissiveMap: tEst, emissiveIntensity: .7, transparent: true, roughness: .4, polygonOffset: true, polygonOffsetFactor: -3 }));
+    st.position.set(0, .3, .56); g.add(st); return g; }
   function gorra(col) { const g = new THREE.Group(), m = sm(col); const cup = M(new THREE.SphereGeometry(.57, 36, 20, 0, Math.PI * 2, 0, Math.PI / 2), m, 0, .3, 0); cup.scale.set(1, .6, 1); g.add(cup);
     g.add(M(rbox(1.12, .08, 1.08, .04), m, 0, .3, 0)); const vis = M(rbox(.86, .06, .55, .1), m, 0, .3, .72); vis.rotation.x = .12; g.add(vis); g.add(bola(.07, m, 0, .65, 0)); return g; }
   function sombreroCopa() { const g = new THREE.Group(), n = sm('#14141A', { roughness: .25 }); g.add(M(new THREE.CylinderGeometry(.75, .75, .06, 32), n, 0, 0, 0)); g.add(M(new THREE.CylinderGeometry(.46, .46, .82, 32), n, 0, .44, 0)); g.add(M(new THREE.CylinderGeometry(.465, .465, .16, 32), sm(C.rosa), 0, .12, 0)); return g; }
@@ -151,24 +151,32 @@
     return M(new THREE.SphereGeometry(r, 32, 24), sm('#FFFFFF', { map: t, roughness: .6 })); }
 
   // ---------- pez y pecera ----------
+  let ENV = null; function entorno() { if (ENV) return ENV; ENV = tex(512, 256, (x, w, h) => { const g = x.createLinearGradient(0, 0, 0, h); g.addColorStop(0, '#9AA4C8'); g.addColorStop(.5, '#4A4E66'); g.addColorStop(1, '#2A2630'); x.fillStyle = g; x.fillRect(0, 0, w, h);
+      for (const [cx, cy, r, a] of [[120, 70, 46, 1], [330, 60, 60, .8], [430, 110, 30, .6]]) { const rg = x.createRadialGradient(cx, cy, 0, cx, cy, r); rg.addColorStop(0, `rgba(255,250,240,${a})`); rg.addColorStop(1, 'rgba(255,250,240,0)'); x.fillStyle = rg; x.fillRect(cx - r, cy - r, r * 2, r * 2); } }); ENV.mapping = THREE.EquirectangularReflectionMapping; return ENV; }
   function pecera() { const g = new THREE.Group();
     const mesa = new THREE.Group(); g.add(mesa); mesa.add(M(new THREE.CylinderGeometry(.6, .6, .07, 40), sm('#F4F4F2', { roughness: .45 }), 0, .78, 0)); { const tr = M(new THREE.TorusGeometry(.6, .035, 10, 48), sm('#F4F4F2'), 0, .78, 0); tr.rotation.x = Math.PI / 2; mesa.add(tr); }
     mesa.add(M(new THREE.CylinderGeometry(.05, .05, .76, 16), sm('#141416', { roughness: .4 }), 0, .38, 0)); mesa.add(M(new THREE.CylinderGeometry(.26, .28, .03, 24), sm('#141416'), 0, .015, 0));
     g.add(M(new THREE.CylinderGeometry(.22, .25, .08, 12), sm('#D9C9A6', { roughness: .6 }), 0, .855, 0));
-    const agua = M(new THREE.SphereGeometry(.3, 40, 28, 0, Math.PI * 2, Math.PI * .28, Math.PI * .72), new THREE.MeshStandardMaterial({ color: '#CDE8B8', transparent: true, opacity: .14, roughness: .05, depthWrite: false }), 0, 1.17, 0); g.add(agua);
-    const vidrio = new THREE.Mesh(new THREE.SphereGeometry(.32, 48, 32, 0, Math.PI * 2, Math.PI * .12, Math.PI * .88), new THREE.MeshPhysicalMaterial({ color: '#EEF8E8', transparent: true, opacity: .14, roughness: .02, clearcoat: 1, side: THREE.DoubleSide, depthWrite: false })); vidrio.position.y = 1.17; vidrio.renderOrder = 5; g.add(vidrio);
-    const borde = M(new THREE.TorusGeometry(.18, .012, 8, 40), new THREE.MeshPhysicalMaterial({ color: '#EEF8E8', transparent: true, opacity: .35, roughness: .02 }), 0, 1.47, 0); borde.rotation.x = Math.PI / 2; g.add(borde);
-    for (const [x, y, w, h, r] of [[-.17, 1.28, .05, .2, .5], [.2, 1.08, .03, .1, -.4]]) { const b = new THREE.Mesh(new THREE.PlaneGeometry(w, h), new THREE.MeshBasicMaterial({ color: '#FFFFFF', transparent: true, opacity: .5, depthWrite: false })); b.position.set(x, y, .28); b.rotation.z = r; g.add(b); }
-    for (let i = 0; i < 16; i++) { const m = new THREE.Mesh(new THREE.SphereGeometry(.004, 6, 4), new THREE.MeshBasicMaterial({ color: '#E8F0D0', transparent: true, opacity: .7 })); m.position.set(Math.sin(i * 2.3) * .2, 1.05 + (i % 5) * .05, Math.cos(i * 1.7) * .18); g.add(m); }
+    // esfera de vidrio real (transmisión), abertura arriba con borde grueso pegado, agua al 80 % con ondas
+    const RV = .32, CY = 1.17, T0 = .16 * Math.PI, env = entorno();
+    const vm = new THREE.MeshPhysicalMaterial({ color: '#FFFFFF', transmission: 1, ior: 1.45, roughness: .05, thickness: .05, metalness: 0, envMap: env, envMapIntensity: 1.3, specularIntensity: 1, depthWrite: false });
+    const vidrio = new THREE.Mesh(new THREE.SphereGeometry(RV, 64, 40, 0, Math.PI * 2, T0, Math.PI - T0), vm); vidrio.position.y = CY; g.add(vidrio);
+    const borde = new THREE.Mesh(new THREE.TorusGeometry(RV * Math.sin(T0), .016, 12, 64), vm); borde.rotation.x = Math.PI / 2; borde.position.y = CY + RV * Math.cos(T0); g.add(borde);
+    const TA = Math.acos(.43), RA = RV - .008, YS = CY + RA * Math.cos(TA);
+    const am = new THREE.MeshStandardMaterial({ color: '#E8F2C0', transparent: true, opacity: .2, roughness: .05, envMap: env, envMapIntensity: .6, depthWrite: false, side: THREE.DoubleSide });
+    const agua = new THREE.Mesh(new THREE.SphereGeometry(RA, 48, 32, 0, Math.PI * 2, TA, Math.PI - TA), am); agua.position.y = CY; g.add(agua);
+    const sgeo = new THREE.RingGeometry(.001, RA * Math.sin(TA), 48, 10); sgeo.rotateX(-Math.PI / 2); const sup = new THREE.Mesh(sgeo, new THREE.MeshStandardMaterial({ color: '#E8F2C0', transparent: true, opacity: .32, roughness: .03, envMap: env, envMapIntensity: 1.2, depthWrite: false, side: THREE.DoubleSide })); sup.position.y = YS; g.add(sup);
+    const sp0 = sgeo.attributes.position.array.slice();
     const pez = new THREE.Group(); pez.position.set(0, 1.12, 0); g.add(pez); const nar = sm('#F2A33A', { emissive: '#6A2A00', emissiveIntensity: .25 }), ama = sm('#F7C04A', { emissive: '#5A3A00', emissiveIntensity: .2 });
     const cuerpo = M(new THREE.SphereGeometry(.1, 24, 18), nar); cuerpo.scale.set(1.25, 1, .72); pez.add(cuerpo);
     const cola = M(rbox(.03, .15, .11, .012), ama, -.15, 0, 0); cola.rotation.z = .2; pez.add(cola); const aleta = M(rbox(.09, .05, .02, .01), ama, -.01, .1, 0); aleta.rotation.z = -.35; pez.add(aleta);
     for (const s of [-1, 1]) { pez.add(M(new THREE.SphereGeometry(.016, 10, 8), sm('#101010', { roughness: .2 }), .08, .03, s * .062)); pez.add(M(new THREE.SphereGeometry(.005, 6, 4), sm('#FFFFFF'), .087, .038, s * .07)); }
     { const bo = M(new THREE.TorusGeometry(.012, .004, 6, 12), sm('#B84A1A'), .124, -.01, 0); bo.rotation.y = Math.PI / 2; pez.add(bo); }
     const gp = gorroFiesta(C.celeste); gp.scale.setScalar(.13); gp.position.set(.03, .085, 0); gp.rotation.z = -.2; pez.add(gp);
-    const burbujas = []; for (let i = 0; i < 6; i++) { const b = new THREE.Mesh(new THREE.SphereGeometry(.012, 8, 6), new THREE.MeshStandardMaterial({ color: '#FFFFFF', transparent: true, opacity: .6 })); g.add(b); burbujas.push(b); }
-    g.userData = { pez, cola, burbujas }; g.anima = (t, baile = 0) => { const a = t * (1 + baile * 2.5); pez.position.set(Math.cos(a) * .1, 1.12 + .03 * Math.sin(t * 3), Math.sin(a) * .08); pez.rotation.y = -a + Math.PI / 2 * baile; pez.rotation.z = .25 * baile * Math.sin(t * 6); cola.rotation.y = .5 * Math.sin(t * 12);
-      burbujas.forEach((b, i) => { const u = ((t * .5 + i / 6) % 1); b.position.set(.04 * Math.sin(i * 2), 1.0 + u * .32, .03 * Math.cos(i * 3)); b.material.opacity = .6 * (1 - u); }); };
+    const burbujas = []; for (let i = 0; i < 9; i++) { const b = new THREE.Mesh(new THREE.SphereGeometry(.005 + (i % 3) * .002, 12, 8), new THREE.MeshStandardMaterial({ color: '#FFFFFF', transparent: true, opacity: .55, roughness: .05, envMap: env, envMapIntensity: 1.5, depthWrite: false })); g.add(b); burbujas.push(b); }
+    g.userData = { pez, cola, burbujas, agua: sup }; g.anima = (t, baile = 0) => { const a = t * (1 + baile * 2.5); pez.position.set(Math.cos(a) * .1, 1.08 + .025 * Math.sin(t * 3), Math.sin(a) * .08); pez.rotation.y = -a + Math.PI / 2 * baile; pez.rotation.z = .25 * baile * Math.sin(t * 6); cola.rotation.y = .5 * Math.sin(t * 12);
+      const sp = sgeo.attributes.position; for (let i = 0; i < sp.count; i++) { const x = sp0[i * 3], z = sp0[i * 3 + 2]; sp.setY(i, .004 * Math.sin(x * 40 + t * 3) * Math.cos(z * 34 - t * 2.4)); } sp.needsUpdate = true; sgeo.computeVertexNormals();
+      burbujas.forEach((b, i) => { const u = ((t * .45 + i / 9) % 1), y0 = 1.0 + (i % 3) * .03; b.position.set(.08 * Math.sin(i * 2.1) + .01 * Math.sin(t * 5 + i), y0 + u * (YS - y0 - .01), .06 * Math.cos(i * 3.3)); b.material.opacity = .55 * Math.min(1, u * 5) * (1 - Math.pow(u, 3)); b.visible = u < .98; }); };
     g.anima(1.3, 0); return g; }
 
   // ---------- catálogo ----------

diff --git a/videos/en-este-pueblo/tools/planos.html b/videos/en-este-pueblo/tools/planos.html
@@ -1,6 +1,6 @@
 <!doctype html>
 <html><head><meta charset="utf-8">
-<style>@font-face{font-family:Fredoka;font-weight:700;src:url(../assets/fonts/fredoka-700.woff2) format('woff2')} html,body{margin:0;background:#000}</style>
+<style>@font-face{font-family:Fredoka;font-weight:700;src:url(../assets/fonts/fredoka-700.woff2) format('woff2')} @font-face{font-family:'Bebas Neue';src:url(../assets/fonts/bebas-neue.woff2) format('woff2')} html,body{margin:0;background:#000}</style>
 <script src="../assets/lib/three.min.js"></script>
 <script src="../assets/lib/personajes.js"></script>
 <script src="../assets/lib/post.js"></script>
@@ -12,8 +12,10 @@
 const E = window.PUEBLO_E, P = window.PUEBLO_P, V3 = (...a) => new THREE.Vector3(...a);
 const PLANOS = {
   1: { esc: 'cancha', o: { luna: [-.42, .5, -.78] }, t: .227, cam: [[.9, .35, 4.6], [-.1, 2.0, -1.2], 58], foco: 3.6, sub: '¡HUSS!' },
-  6: { esc: 'alcalde', t: 2.1, cam: [[.6, 1.32, 2.25], [-.45, 1.12, -.1], 42], foco: 1.75, ap: .9, sub: 'pez' },
-  15: { esc: 'partido', t: .6, cam: [[21, 11, .5], [-3, 0, -9.5], 54], foco: 18, sub: 'fiesta' },
+  6: { esc: 'alcalde', t: 2.1, cam: [[.6, 1.32, 2.25], [-.45, 1.12, -.1], 42], foco: 1.75, ap: .35, sub: 'pez' },
+  15: { esc: 'partido', t: .6, cam: [[21, 11, .5], [-3, 3.2, -9.5], 54], foco: 18, sub: 'fiesta' },
+  '22b': { esc: 'partido', o: { marcador: [0, 50] }, t: .6, cam: [[6.6, 4.3, -11.8], [6.35, 4.25, -17.1], 44], foco: 5.6, ap: .5, sub: 'puntos' },
+  41: { esc: 'fiesta_final', t: 1.4, cam: [[1.05, 1.3, .55], [.55, 1.0, -1.4], 44], foco: 2.0, ap: .5, sub: 'invitado' },
   22: { esc: 'partido', o: { marcador: [0, 50] }, t: .6, cam: [[8.75, 4.3, -11.6], [7.95, 4.25, -17.1], 44], foco: 5.6, ap: .5, sub: 'Cincuenta' },
   32: { esc: 'calle_siluetas', t: 1, cam: [[-.4, 1.45, 10.4], [-6.5, 2.4, -1], 50], foco: 4, sub: 'ventana',
         extra: (e) => { const a = E.personaje('prota', -1.95, 7.15, -.05, 'sorpresa', 'quieto'); e.scene.add(a); } },
@@ -23,7 +25,7 @@ const n = location.hash.slice(1), D = PLANOS[n];
 const W = 1080, H = 1920, gl = document.getElementById('gl'); gl.width = W; gl.height = H;
 const R = new THREE.WebGLRenderer({ canvas: gl, antialias: false, preserveDrawingBuffer: true }); R.setPixelRatio(1); R.setSize(W, H, false);
 R.outputEncoding = THREE.sRGBEncoding; R.toneMapping = THREE.LinearToneMapping; R.toneMappingExposure = .85; R.shadowMap.enabled = true; R.shadowMap.type = THREE.PCFSoftShadowMap;
-(async () => { try { await document.fonts.load('700 90px Fredoka');
+(async () => { try { await document.fonts.load('700 90px Fredoka'); await document.fonts.load('100px "Bebas Neue"');
   const e = E.crear(D.esc, D.o); if (D.extra) D.extra(e); e.anima(D.t); const cam = D.cam ? E.camara(...D.cam) : e.cam;
   window.POST(R, W, H).render(e.scene, cam, Object.assign({ grano: 1 }, e.post, { focus: D.foco || e.post.focus, ap: D.ap != null ? D.ap : e.post.ap }));
   const c = document.createElement('canvas'); c.width = W; c.height = H; const x = c.getContext('2d'); x.drawImage(gl, 0, 0);

diff --git a/videos/en-este-pueblo/tools/escenarios.html b/videos/en-este-pueblo/tools/escenarios.html
@@ -1,6 +1,6 @@
 <!doctype html>
 <html><head><meta charset="utf-8">
-<style>html,body{margin:0;background:#000}</style>
+<style>@font-face{font-family:'Bebas Neue';src:url(../assets/fonts/bebas-neue.woff2) format('woff2')} html,body{margin:0;background:#000}</style>
 <script src="../assets/lib/three.min.js"></script>
 <script src="../assets/lib/personajes.js"></script>
 <script src="../assets/lib/post.js"></script>
@@ -13,7 +13,7 @@ const [k, tt] = location.hash.slice(1).split('@'), t = +(tt || 1.2);
 const W = 1080, H = 1920, gl = document.getElementById('gl'); gl.width = W; gl.height = H;
 const R = new THREE.WebGLRenderer({ canvas: gl, antialias: false, preserveDrawingBuffer: true }); R.setPixelRatio(1); R.setSize(W, H, false);
 R.outputEncoding = THREE.sRGBEncoding; R.toneMapping = THREE.LinearToneMapping; R.toneMappingExposure = .85; R.shadowMap.enabled = true; R.shadowMap.type = THREE.PCFSoftShadowMap;
-try { const E = window.PUEBLO_E.crear(k); E.anima(t); const PP = window.POST(R, W, H); PP.render(E.scene, E.cam, Object.assign({ grano: 1 }, E.post));
+(async () => { await document.fonts.load('100px "Bebas Neue"'); try { const E = window.PUEBLO_E.crear(k); E.anima(t); const PP = window.POST(R, W, H); PP.render(E.scene, E.cam, Object.assign({ grano: 1 }, E.post));
   window.__png = gl.toDataURL('image/png'); } catch (e) { console.error(e.stack); window.__png = ''; }
-window.__listo = true;
+window.__listo = true; })();
 </script></body></html>
